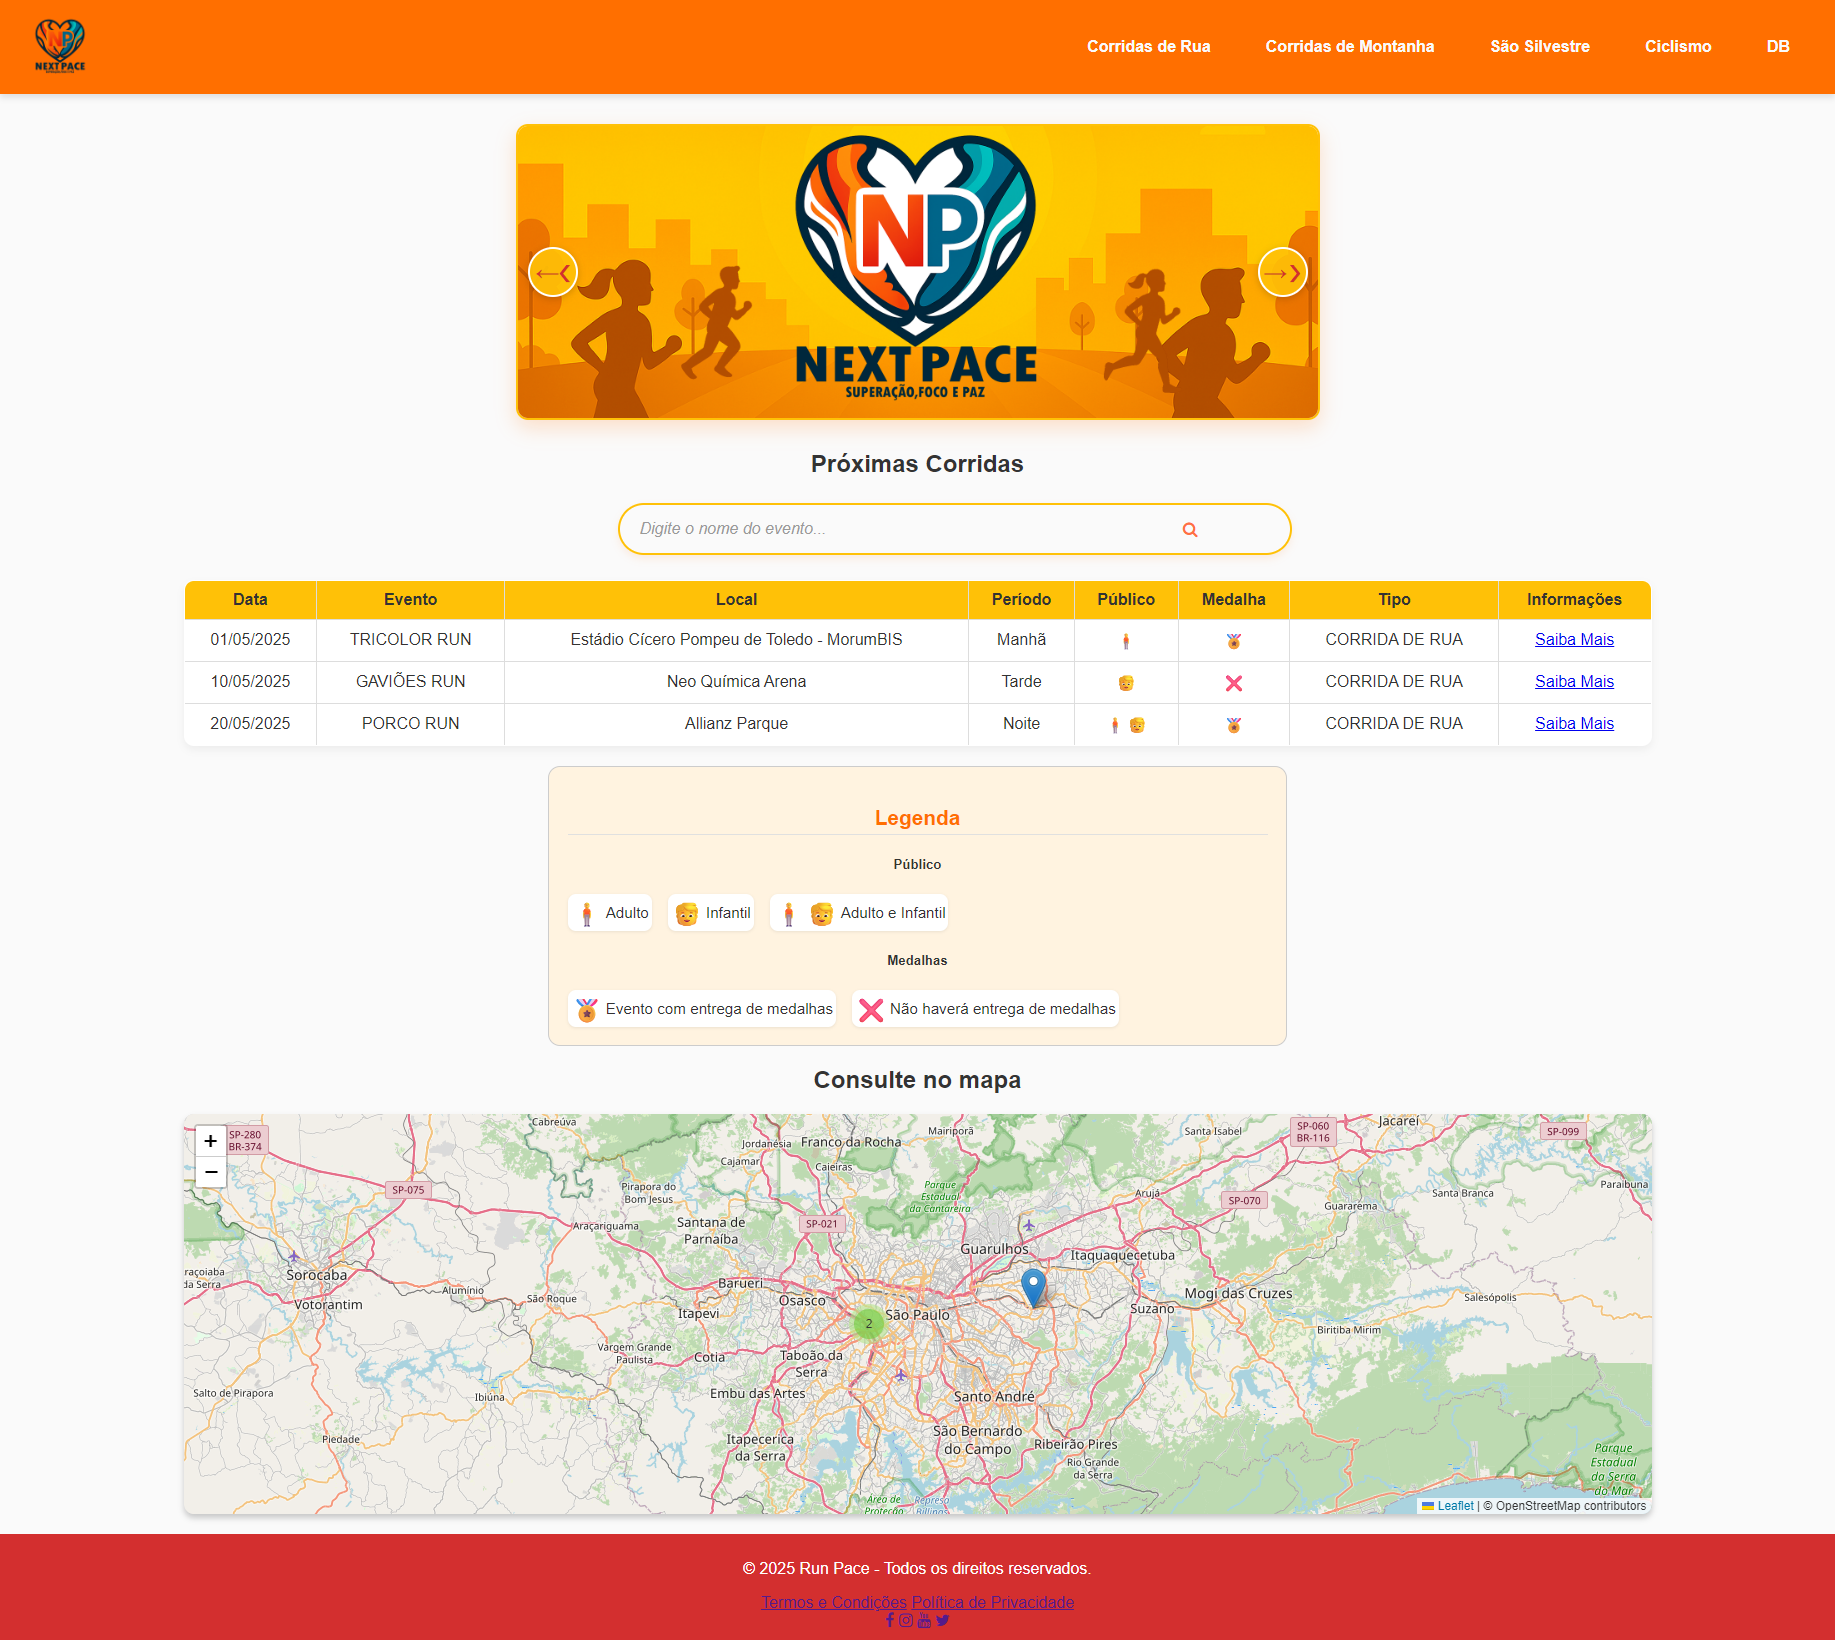
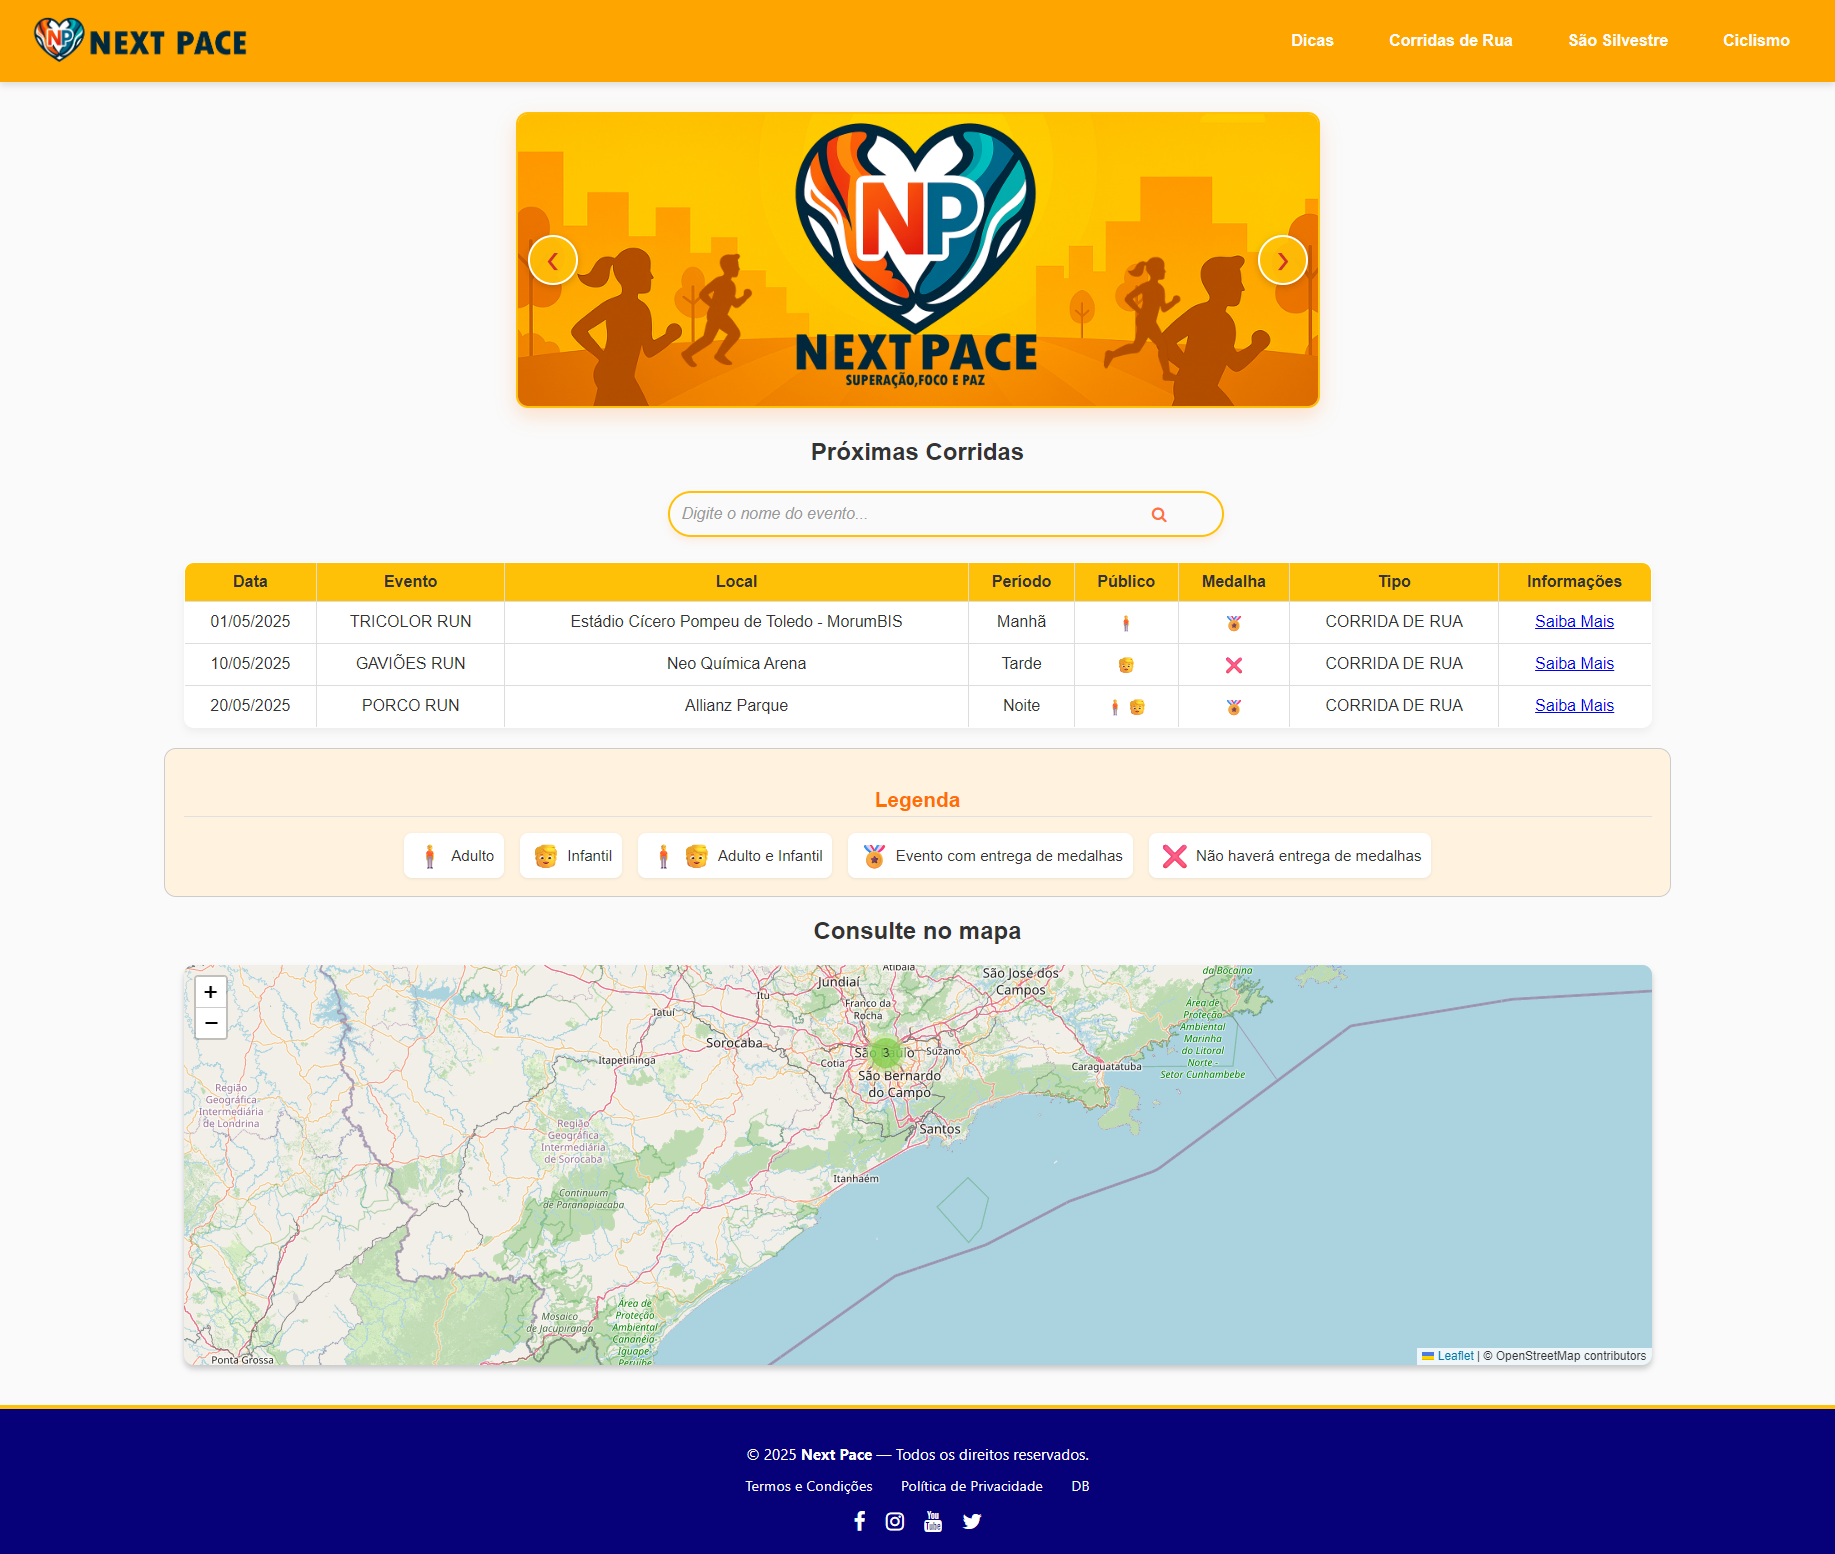
main
Realizado ajustes de estilos na página inicial

diff --git a/public/css/style.css b/public/css/style.css
@@ -13,12 +13,12 @@ body {
     align-items: center;
     justify-content: space-between;
     padding: 15px 30px;
-    background-color: #FF6F00; /* Laranja intenso */
+    background-color: #FFA500; 
     box-shadow: 0px 4px 6px rgba(0, 0, 0, 0.1);
 }
 
 .logo {
-    width: 60px;
+    width: 300px;
     height: auto;
     border-radius: 10px;
 }
@@ -110,14 +110,12 @@ body {
 
 /* Seta esquerda */
 .carousel-prev::before {
-    content: '←';
     position: relative;
     right: -1px;
 }
 
 /* Seta direita */
 .carousel-next::before {
-    content: '→';
     position: relative;
     left: -1px;
 }
@@ -224,18 +222,19 @@ span.psw {
   margin: 25px auto;
   max-width: 800px;
   padding: 0 20px;
+  text-align: center; /* centraliza o conteúdo interno */
 }
 
 .search-wrapper {
   position: relative;
   width: 100%;
-  max-width: 600px;
+  max-width: 500px; 
   margin: 0 auto;
 }
 
 #search-bar {
   width: 100%;
-  padding: 15px 50px 15px 20px;
+  padding: 12px 40px 12px 12px; /* espaço à direita para a lupa */
   font-size: 16px;
   border: 2px solid #FFC107; /* Amarelo dourado */
   border-radius: 30px;
@@ -254,7 +253,7 @@ span.psw {
 
 .search-icon {
   position: absolute;
-  right: 20px;
+  right: 1px;
   top: 50%;
   transform: translateY(-50%);
   color: #FF7043; /* Coral */
@@ -388,7 +387,9 @@ span.psw {
     border: 1px solid #ccc;
     border-radius: 12px;
     background-color: #FFF3E0;
-    max-width: 700px;
+    width: 100%; 
+    max-width: 80%; 
+    overflow-x: auto; /* scroll horizontal se necessário */
 }
 
 .legenda-publico-horizontal h3 {
@@ -406,18 +407,21 @@ span.psw {
 .legenda-itens {
     display: flex;
     gap: 1rem;
-    flex-wrap: wrap;
+    justify-content: center;
+    flex-wrap: wrap; /* volta a quebrar linha se precisar */
 }
 
 .legenda-item {
+    flex-shrink: 0; /* impede encolhimento ao rolar */
     display: flex;
     align-items: center;
-    gap: 0.15rem;
+    gap: 0.3rem;
     background: #fff;
-    padding: 0.15rem 0.18rem;
+    padding: 0.4rem 0.6rem;
     border-radius: 8px;
     box-shadow: 0 1px 3px rgba(0,0,0,0.08);
     font-size: 0.95rem;
+    white-space: nowrap; /* evita quebra de texto */
 }
 
 .emoji {
@@ -425,27 +429,54 @@ span.psw {
 }
 
 /* Footer */
-footer {
-    background: #D32F2F; /* Vermelho vibrante */
-    color: white;
-    text-align: center;
-    padding: 10px;
-    margin-top: 20px;
+.footer {
+  background: #060178;
+  color: white;
+  text-align: center;
+  padding: 20px 10px;
+  margin-top: 40px;
+  font-family: 'Segoe UI', sans-serif;
+  border-top: 4px solid #FFC107;
 }
 
-.footer .row {
-    margin: 1% 0;
-    padding: 0.6% 0;
-    background-color: rgba(0, 0, 0, 0.2);
-    font-size: 0.8em;
+.footer-content {
+  max-width: 1000px;
+  margin: 0 auto;
 }
 
-.footer .row a {
-    color: white;
-    margin: 0 10px;
-    transition: 0.5s;
+.footer p {
+  font-size: 0.95rem;
+  margin-bottom: 10px;
 }
 
-.footer .row a:hover {
-    color: #FFC107; /* Amarelo dourado */
+.footer-links {
+  margin: 10px 0;
+}
+
+.footer-links a {
+  color: #FAFAFA;
+  margin: 0 12px;
+  text-decoration: none;
+  font-size: 0.9rem;
+  transition: color 0.3s;
+}
+
+.footer-links a:hover {
+  color: #FFC107;
+}
+
+.footer-social {
+  margin-top: 12px;
+}
+
+.footer-social a {
+  color: white;
+  font-size: 1.3rem;
+  margin: 0 8px;
+  transition: color 0.3s, transform 0.3s;
+}
+
+.footer-social a:hover {
+  color: #40E0D0; /* Azul turquesa claro */
+  transform: scale(1.15);
 }

diff --git a/public/index.html b/public/index.html
@@ -14,13 +14,12 @@
 
   <!-- Navbar -->
   <nav class="navbar">
-    <a href="index.html"><img src="images\logo.png" class="logo"></a>
+    <a href="index.html"><img src="images\Logo Horizontal NP copy 2.png" class="logo"></a>
     <ul>
+      <li><a href="#">Dicas</a></li>
       <li><a href="#">Corridas de Rua</a></li>
-      <li><a href="#">Corridas de Montanha</a></li>
       <li><a href="#">São Silvestre</a></li>
       <li><a href="#">Ciclismo</a></li>
-      <li><a href="db_login.html">DB</a></li>
     </ul>
   </nav>
 
@@ -68,9 +67,7 @@
 
   <section class="legenda-publico-horizontal">
     <h3>Legenda</h3>
-
     <div class="legenda-grupo">
-      <h5>Público</h5>
       <div class="legenda-itens">
         <div class="legenda-item">
           <span class="emoji">🧍</span>
@@ -84,12 +81,6 @@
           <span class="emoji">🧍🧒</span>
           <span>Adulto e Infantil</span>
         </div>
-      </div>
-    </div>
-
-    <div class="legenda-grupo">
-      <h5>Medalhas</h5>
-      <div class="legenda-itens">
         <div class="legenda-item">
           <span class="emoji">🏅</span>
           <span>Evento com entrega de medalhas</span>
@@ -122,18 +113,23 @@
   <script src="js/banners_admin.js"></script>
 
   <!-- Footer -->
-  <footer>
-    <p>&copy; 2025 Run Pace - Todos os direitos reservados.</p>
+<footer class="footer">
+  <div class="footer-content">
+    <p>&copy; 2025 <strong>Next Pace</strong> — Todos os direitos reservados.</p>
+
     <div class="footer-links">
       <a href="termos.html">Termos e Condições</a>
       <a href="privacidade.html">Política de Privacidade</a>
+      <a href="db_login.html">DB</a>
     </div>
-    <div class="row">
-      <a href="404.html"><i class="fa fa-facebook"></i></a>
-      <a href="404.html"><i class="fa fa-instagram"></i></a>
-      <a href="404.html"><i class="fa fa-youtube"></i></a>
-      <a href="404.html"><i class="fa fa-twitter"></i></a>
+
+    <div class="footer-social">
+      <a href="404.html" title="Facebook"><i class="fa fa-facebook"></i></a>
+      <a href="404.html" title="Instagram"><i class="fa fa-instagram"></i></a>
+      <a href="404.html" title="YouTube"><i class="fa fa-youtube"></i></a>
+      <a href="404.html" title="Twitter"><i class="fa fa-twitter"></i></a>
     </div>
-  </footer>
+  </div>
+</footer>
 </body>
 </html>

diff --git a/README.md b/README.md
@@ -33,7 +33,8 @@ TO DO:
 - [ ] Finalizar ajustes finais de estilos
 - [X] Criar página de Termos e Condições
 - [X] Criar página 404.html estilizada
+- [ ] Filtrar quantidade de itens que serão exibidos na tabela 1-10 / 100 por exemplo
 - [ ] Tornar responsível 
-- [ ] Definir o que terá na Navbar
+- [ ] Definir o que terá na Navbar - Aba de dicas para corridas
 - [ ] Validar testes de funcionamento
 - [ ] Planejar atualizações futuras, ex: inserir as corridas em formas de card juntamente com a imagem da mesma
